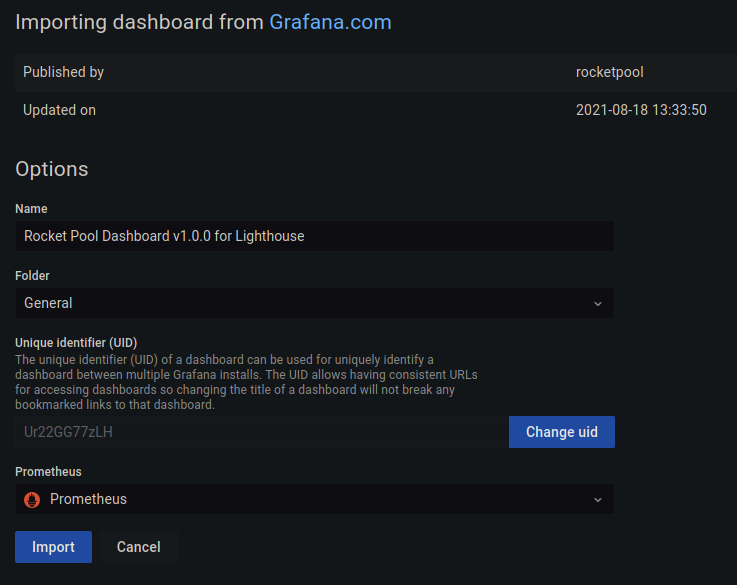
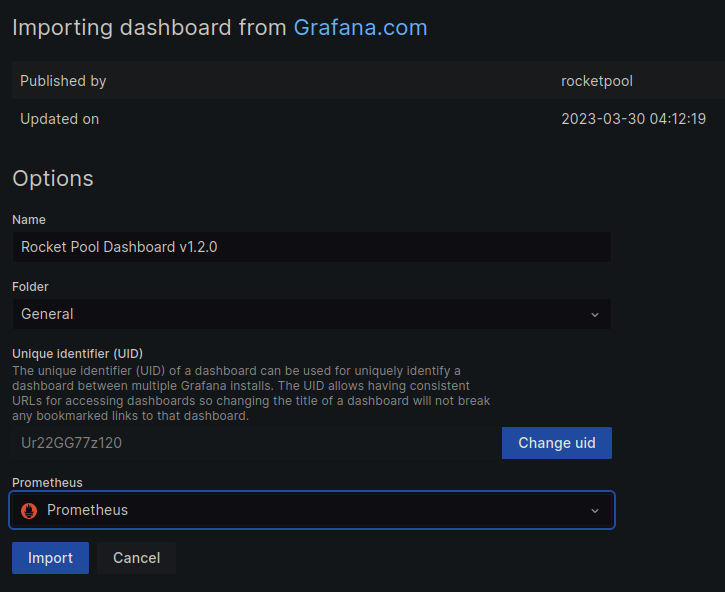
Updated Grafana

diff --git a/src/guides/node/grafana.md b/src/guides/node/grafana.md
@@ -1,29 +1,19 @@
 # Setting up the Grafana Dashboard
 
-::: warning NOTE
-The Smartnode metrics and dashboard are still **experimental**.
-If you encounter issues while setting them up using the guides below, please report them to the Rocket Pool team on the official Discord server.
-
-Also, note that the Smartnode's metrics collector and Grafana dashboard are *entirely optional*.
-You do not need to set them up to successfully run the Smartnode stack.
-:::
-
 Now that you have your node up and running, you'll probably want to have a convenient way to monitor everything about it at a glance to make sure it's functioning correctly (and what kind of earnings it's generating for you).
 
 There are many tools out there that do this job.
 One of the most popular is called [Grafana](https://grafana.com/) - an easy-to-use, general-purpose dashboard system that you can access with a browser.
 
 Rocket Pool comes out-of-the-box with support for Grafana and its dependencies; it even comes with a pre-built dashboard for each of the Consensus (ETH2) clients.
-For example, here is a snapshot of what the dashboard for Nimbus looks like:
+For example, here is a snapshot of what the dashboard looks like on the Prater test network:
 
+![](./images/grafana-1.2.jpg)
 
-![](./images/nimbus-dashboard.png)
-
-The pre-built dashboard was based on many rounds of feedback from the Rocket Pool community during the beta tests and the final Prater testnet.
-It includes the following information all in a convenient format:
+The standard dashboard includes the following information all in a convenient format:
 
 - **Top left:** some important statistics about your machine's health and performance, and any pending system updates
-- **Top right:** the activity and performance of your validators on the Beacon Chain
+- **Top right:** the activity and performance of your validators on the Beacon Chain, along with some Execution and Consensus client stats
 - **Bottom left:** details about the entire Rocket Pool network, for reference
 - **Bottom right:** details about your staking rewards, both ETH and RPL
 
@@ -32,8 +22,7 @@ In this guide, we'll show you how to enable Rocket Pool's metrics system so you 
 
 ## Overview of the Rocket Pool Metrics Stack
 
-Starting with Smartnode v1.0.0-RC6, the Smartnode comes with an optional supplement to the traditional stack.
-It uses the following capabilities:
+If you choose to enable metrics during the Smartnode configuration process, your node will add the following processes:
 
 - [Prometheus](https://prometheus.io/) - a data collection, storage, and reporting system that captures all of the metrics you see above (any many more) and stores them, so they can be looked at over time
 - The Prometheus [Node Exporter](https://github.com/prometheus/node_exporter) - a service that collects information about your machine's health (such as CPU usage, RAM usage, free disk space and swap space, etc.) and reports it to Prometheus
@@ -42,11 +31,6 @@ It uses the following capabilities:
 
 The default configuration will create Docker containers with all of these services that live alongside the rest of the Smartnode's Docker containers.
 It will open up a port on your node machine for Grafana, so you can access its dashboard from any machine on your local network with a browser.
-
-::: warning NOTE
-This guide assumes you don't have a Prometheus and Grafana setup already in use, and need to create one from scratch.
-If you already have an existing setup, you can derive the necessary information for attaching the relevant metrics to your Prometheus instance using the Native mode guides below.
-:::
 
 
 ## Enabling the Metrics Server
@@ -257,24 +241,14 @@ Start by going to the **Create** menu (the plus icon on the right-side bar) and 
 
 ![](./images/grafana-import.png)
 
-When prompted for the URL, select the option from the below list based on which Consensus (ETH2) client you are using:
+When prompted for the dashboard ID in the **Import via grafana.com** box, enter `18391` or use the full URL ([(https://grafana.com/grafana/dashboards/18391](https://grafana.com/grafana/dashboards/18391)) and press the **Load** button.
 
-- Lighthouse: [https://grafana.com/grafana/dashboards/14883](https://grafana.com/grafana/dashboards/14883)
-- Nimbus: [https://grafana.com/grafana/dashboards/14884](https://grafana.com/grafana/dashboards/14884)
-- Prysm: [https://grafana.com/grafana/dashboards/14885](https://grafana.com/grafana/dashboards/14885)
-- Teku: [https://grafana.com/grafana/dashboards/14886](https://grafana.com/grafana/dashboards/14886)
-
-::: tip Tip
-If you don't remember which client you have, you can check quickly by running `rocketpool service version` on your node.
-:::
-
-Enter one of the URLs above into the **Import via grafana.com** box and press the **Load** button.
 You will be prompted with some information about the dashboard here, such as its name and where you'd like to store it (the default **General** folder is fine unless you use a lot of dashboards and want to organize them).
 
 Under the **Prometheus** drop-down at the bottom, you should only have a single option labeled **Prometheus (default)**.
 Select this option.
 
-Your screen should look like this (using Lighthouse as an example):
+Your screen should look like this:
 
 ![](./images/grafana-import2.png)
 
@@ -291,12 +265,9 @@ For example, here is the tooltip for the **Your Validator Share** box:
 However, we aren't done setting things up yet - there is still a little more configuration to do.
 
 ::: warning NOTE
-Some of the boxes (notably the APR ones) calculate their values by comparing today's value with yesterday's value.
-Until the metrics server has been running for more than a day, these will say **N/A** or **No data**.
+Some of the boxes (notably the APR ones) have been temporarily disabled due to the way Shapella provides skimmed rewards.
 
-This is normal!
-
-Just wait a day until it has enough data to calculate its values correctly.
+They will be enabled again in a future version of the Smartnode that can track historical rewards properly.
 :::
 
 
